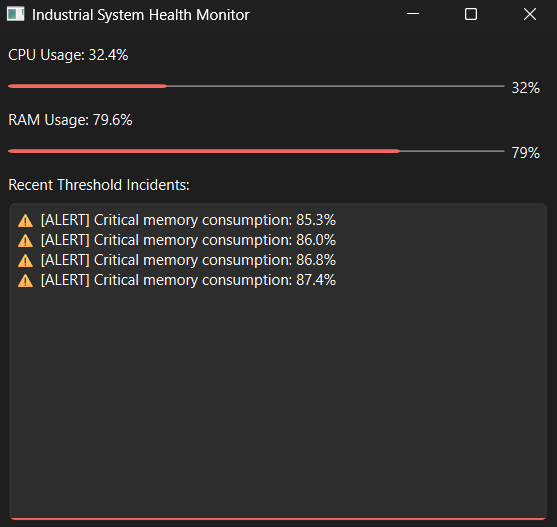
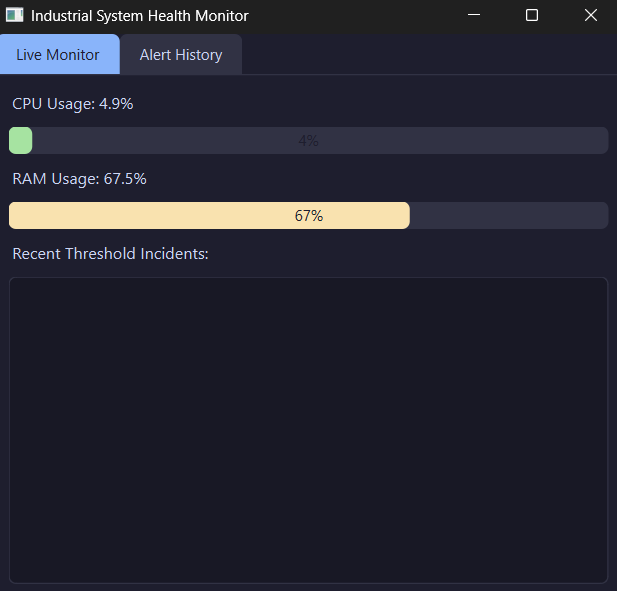
Add Alert History tab with QTableWidget displaying past alerts from SQLite

diff --git a/main.py b/main.py
@@ -1,7 +1,8 @@
 import sys
 import psutil
 from PySide6.QtWidgets import (QApplication, QMainWindow, QWidget, QVBoxLayout,
-                             QHBoxLayout, QLabel, QProgressBar, QPushButton, QTextEdit)
+                             QHBoxLayout, QLabel, QProgressBar, QPushButton, QTextEdit,
+                             QTabWidget, QTableWidget, QTableWidgetItem, QHeaderView)
 from PySide6.QtCore import QTimer, Qt
 import database
 
@@ -9,76 +10,79 @@ class SystemMonitorApp(QMainWindow):
     def __init__(self):
         super().__init__()
         self.setWindowTitle("Industrial System Health Monitor")
-        self.resize(450, 400)
+        self.resize(500, 450)
         self.apply_dark_theme()
 
-        # Initialize Database
         database.init_db()
 
-        # UI Layout Setup
-        self.central_widget = QWidget()
-        self.setCentralWidget(self.central_widget)
-        self.main_layout = QVBoxLayout(self.central_widget)
+        # Tab widget replaces the old single central_widget
+        self.tabs = QTabWidget()
+        self.setCentralWidget(self.tabs)
 
-        # CPU Section
+        self.live_tab = QWidget()
+        self.history_tab = QWidget()
+
+        self.tabs.addTab(self.live_tab, "Live Monitor")
+        self.tabs.addTab(self.history_tab, "Alert History")
+
+        self.build_live_tab()
+        self.build_history_tab()
+
+        # Refresh history whenever user clicks that tab
+        self.tabs.currentChanged.connect(self.on_tab_changed)
+
+        self.timer = QTimer()
+        self.timer.timeout.connect(self.update_metrics)
+        self.timer.start(2000)
+
+    def build_live_tab(self):
+        layout = QVBoxLayout(self.live_tab)
+
         self.cpu_label = QLabel("CPU Usage: 0%")
         self.cpu_bar = QProgressBar()
         self.cpu_bar.setRange(0, 100)
-        self.main_layout.addWidget(self.cpu_label)
-        self.main_layout.addWidget(self.cpu_bar)
+        layout.addWidget(self.cpu_label)
+        layout.addWidget(self.cpu_bar)
 
-        # RAM Section
         self.ram_label = QLabel("RAM Usage: 0%")
         self.ram_bar = QProgressBar()
         self.ram_bar.setRange(0, 100)
-        self.main_layout.addWidget(self.ram_label)
-        self.main_layout.addWidget(self.ram_bar)
+        layout.addWidget(self.ram_label)
+        layout.addWidget(self.ram_bar)
 
-        # Incident Log Area
         self.log_label = QLabel("Recent Threshold Incidents:")
         self.log_view = QTextEdit()
         self.log_view.setReadOnly(True)
-        self.main_layout.addWidget(self.log_label)
-        self.main_layout.addWidget(self.log_view)
+        layout.addWidget(self.log_label)
+        layout.addWidget(self.log_view)
 
-        # Background Interval Timer (Simulating real-time polling)
-        self.timer = QTimer()
-        self.timer.timeout.connect(self.update_metrics)
-        self.timer.start(2000)  # Updates every 2 seconds
+    def build_history_tab(self):
+        layout = QVBoxLayout(self.history_tab)
 
-    def apply_dark_theme(self):
-        self.setStyleSheet("""
-            QMainWindow {
-                background-color: #1e1e2e;
-            }
-            QLabel {
-                color: #cdd6f4;
-                font-size: 13px;
-                font-weight: 500;
-                padding: 4px 0px;
-            }
-            QProgressBar {
-                background-color: #313244;
-                border: none;
-                border-radius: 6px;
-                text-align: center;
-                color: #cdd6f4;
-                height: 22px;
-            }
-            QProgressBar::chunk {
-                background-color: #89b4fa;
-                border-radius: 6px;
-            }
-            QTextEdit {
-                background-color: #181825;
-                color: #f38ba8;
-                border: 1px solid #313244;
-                border-radius: 6px;
-                font-family: Consolas, monospace;
-                font-size: 12px;
-                padding: 6px;
-            }
-        """)
+        self.refresh_button = QPushButton("Refresh History")
+        self.refresh_button.clicked.connect(self.load_history)
+        layout.addWidget(self.refresh_button)
+
+        self.history_table = QTableWidget()
+        self.history_table.setColumnCount(5)
+        self.history_table.setHorizontalHeaderLabels(["ID", "Timestamp", "Metric", "Value", "Status"])
+        self.history_table.horizontalHeader().setSectionResizeMode(QHeaderView.Stretch)
+        self.history_table.setEditTriggers(QTableWidget.NoEditTriggers)
+        layout.addWidget(self.history_table)
+
+        self.load_history()
+
+    def load_history(self):
+        rows = database.get_all_alerts()
+        self.history_table.setRowCount(len(rows))
+        for row_index, row_data in enumerate(rows):
+            for col_index, value in enumerate(row_data):
+                item = QTableWidgetItem(str(value))
+                self.history_table.setItem(row_index, col_index, item)
+
+    def on_tab_changed(self, index):
+        if self.tabs.tabText(index) == "Alert History":
+            self.load_history()
 
     def update_metrics(self):
         cpu = psutil.cpu_percent()
@@ -101,11 +105,11 @@ class SystemMonitorApp(QMainWindow):
 
     def set_bar_color(self, bar, value):
         if value < 60:
-            color = "#a6e3a1"  # green
+            color = "#a6e3a1"
         elif value < 80:
-            color = "#f9e2af"  # yellow
+            color = "#f9e2af"
         else:
-            color = "#f38ba8"  # red
+            color = "#f38ba8"
         bar.setStyleSheet(f"""
             QProgressBar {{
                 background-color: #313244;
@@ -120,6 +124,67 @@ class SystemMonitorApp(QMainWindow):
                 border-radius: 6px;
             }}
         """)
+
+    def apply_dark_theme(self):
+        self.setStyleSheet("""
+            QMainWindow {
+                background-color: #1e1e2e;
+            }
+            QLabel {
+                color: #cdd6f4;
+                font-size: 13px;
+                font-weight: 500;
+                padding: 4px 0px;
+            }
+            QTabWidget::pane {
+                border: 1px solid #313244;
+                background-color: #1e1e2e;
+            }
+            QTabBar::tab {
+                background-color: #313244;
+                color: #cdd6f4;
+                padding: 8px 16px;
+                border-top-left-radius: 6px;
+                border-top-right-radius: 6px;
+            }
+            QTabBar::tab:selected {
+                background-color: #89b4fa;
+                color: #1e1e2e;
+            }
+            QPushButton {
+                background-color: #89b4fa;
+                color: #1e1e2e;
+                border: none;
+                border-radius: 6px;
+                padding: 8px;
+                font-weight: 600;
+            }
+            QPushButton:hover {
+                background-color: #74c7ec;
+            }
+            QTableWidget {
+                background-color: #181825;
+                color: #cdd6f4;
+                gridline-color: #313244;
+                border: 1px solid #313244;
+            }
+            QHeaderView::section {
+                background-color: #313244;
+                color: #cdd6f4;
+                padding: 4px;
+                border: none;
+            }
+            QTextEdit {
+                background-color: #181825;
+                color: #f38ba8;
+                border: 1px solid #313244;
+                border-radius: 6px;
+                font-family: Consolas, monospace;
+                font-size: 12px;
+                padding: 6px;
+            }
+        """)
+
 if __name__ == "__main__":
     app = QApplication(sys.argv)
     window = SystemMonitorApp()

diff --git a/database.py b/database.py
@@ -26,3 +26,11 @@ def log_alert(metric_type, value, status="WARNING"):
     )
     conn.commit()
     conn.close()
+
+def get_all_alerts():
+    conn = sqlite3.connect("system_logs.db")
+    cursor = conn.cursor()
+    cursor.execute("SELECT id, timestamp, metric_type, value, status FROM alerts ORDER BY id DESC")
+    rows = cursor.fetchall()
+    conn.close()
+    return rows

diff --git a/README.md b/README.md
@@ -47,6 +47,6 @@ This separation keeps the storage logic independent of the UI, making each piece
 
 ## Roadmap
 
-- [ ] Add a historical alerts view with a filterable table
+- [x] Add a historical alerts view with a filterable table
 - [x] Add dark theme styling
 - [ ] Package as a standalone executable